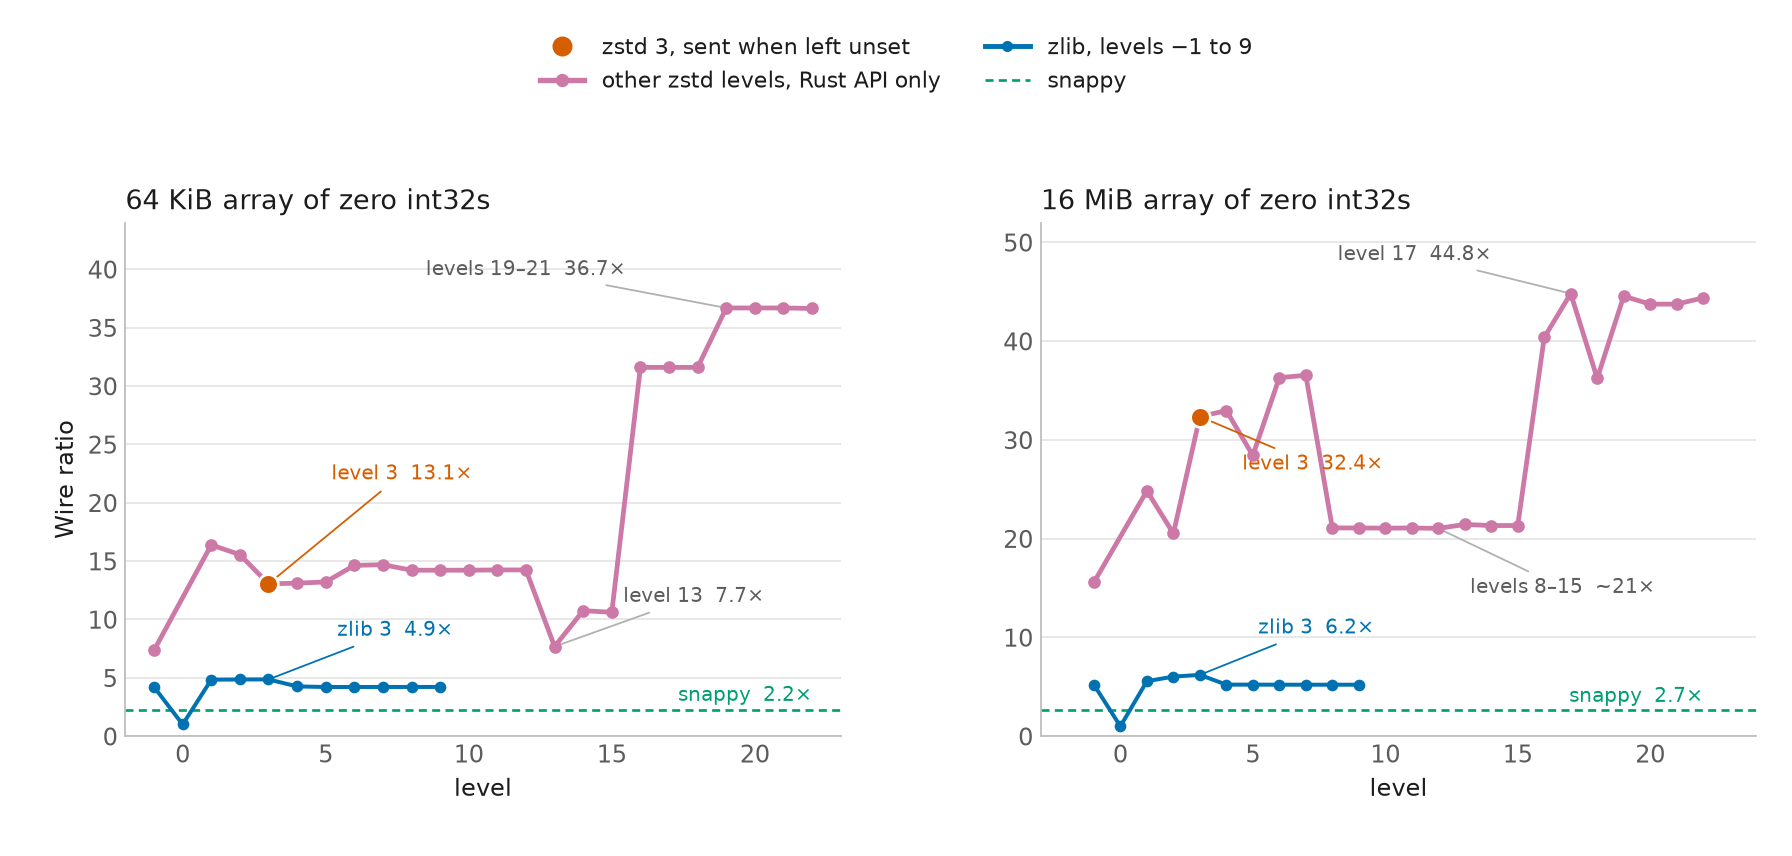
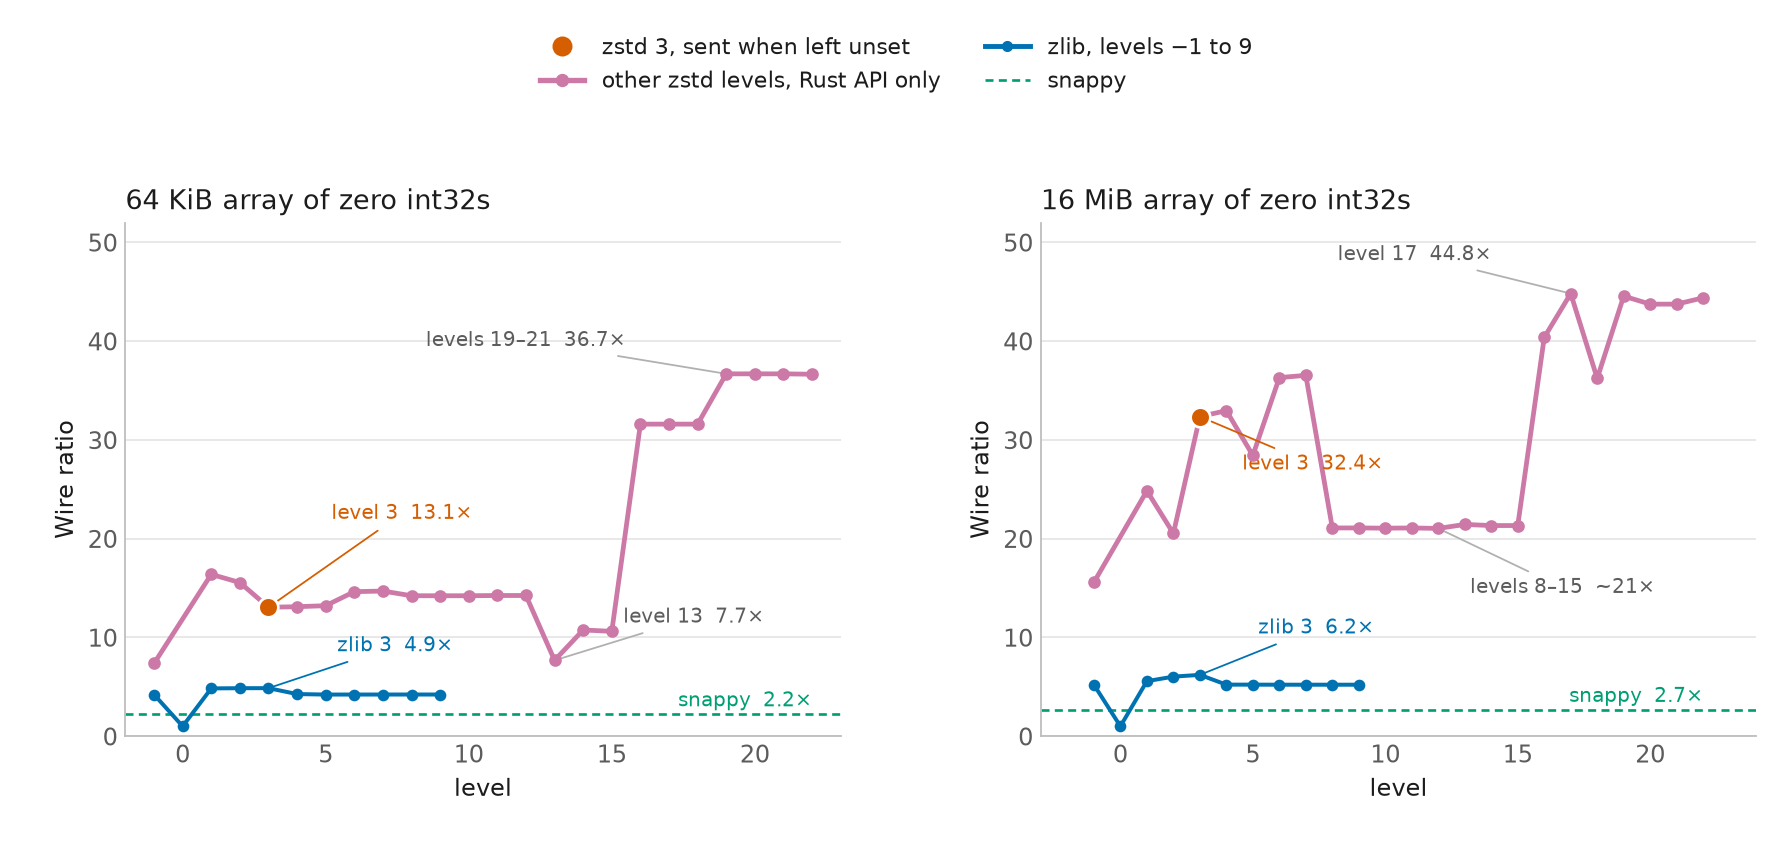
align the level chart y axes

diff --git a/src/compressor-charts.py b/src/compressor-charts.py
@@ -390,7 +390,8 @@ def level_chart():
     left.axhline(snappy["wireRatio"], color=SNAP, lw=1.2, ls=(0, (3, 2)), zorder=2)
     left.text(22, snappy["wireRatio"] + 0.8, "snappy  2.2×", color=SNAP, fontsize=9, ha="right")
     left.set_xlim(-2, 23)
-    left.set_ylim(0, 44)
+    left.set_ylim(0, 52)
+    left.set_yticks([0, 10, 20, 30, 40, 50])
     left.set_xlabel("level")
     left.set_ylabel("Wire ratio")
     left.set_title("64 KiB array of zero int32s", loc="left", fontsize=12)
@@ -419,7 +420,9 @@ def level_chart():
     right.text(22, sn["wireRatio"] + 0.8, "snappy  2.7×", color=SNAP, fontsize=9, ha="right")
     right.set_xlim(-3, 24)
     right.set_ylim(0, 52)
+    right.set_yticks([0, 10, 20, 30, 40, 50])
     right.set_xlabel("level")
+    right.set_ylabel("Wire ratio")
     right.set_title("16 MiB array of zero int32s", loc="left", fontsize=12)
     right.grid(True, axis="y", color=GRID, lw=0.8)
     right.tick_params(length=0)
